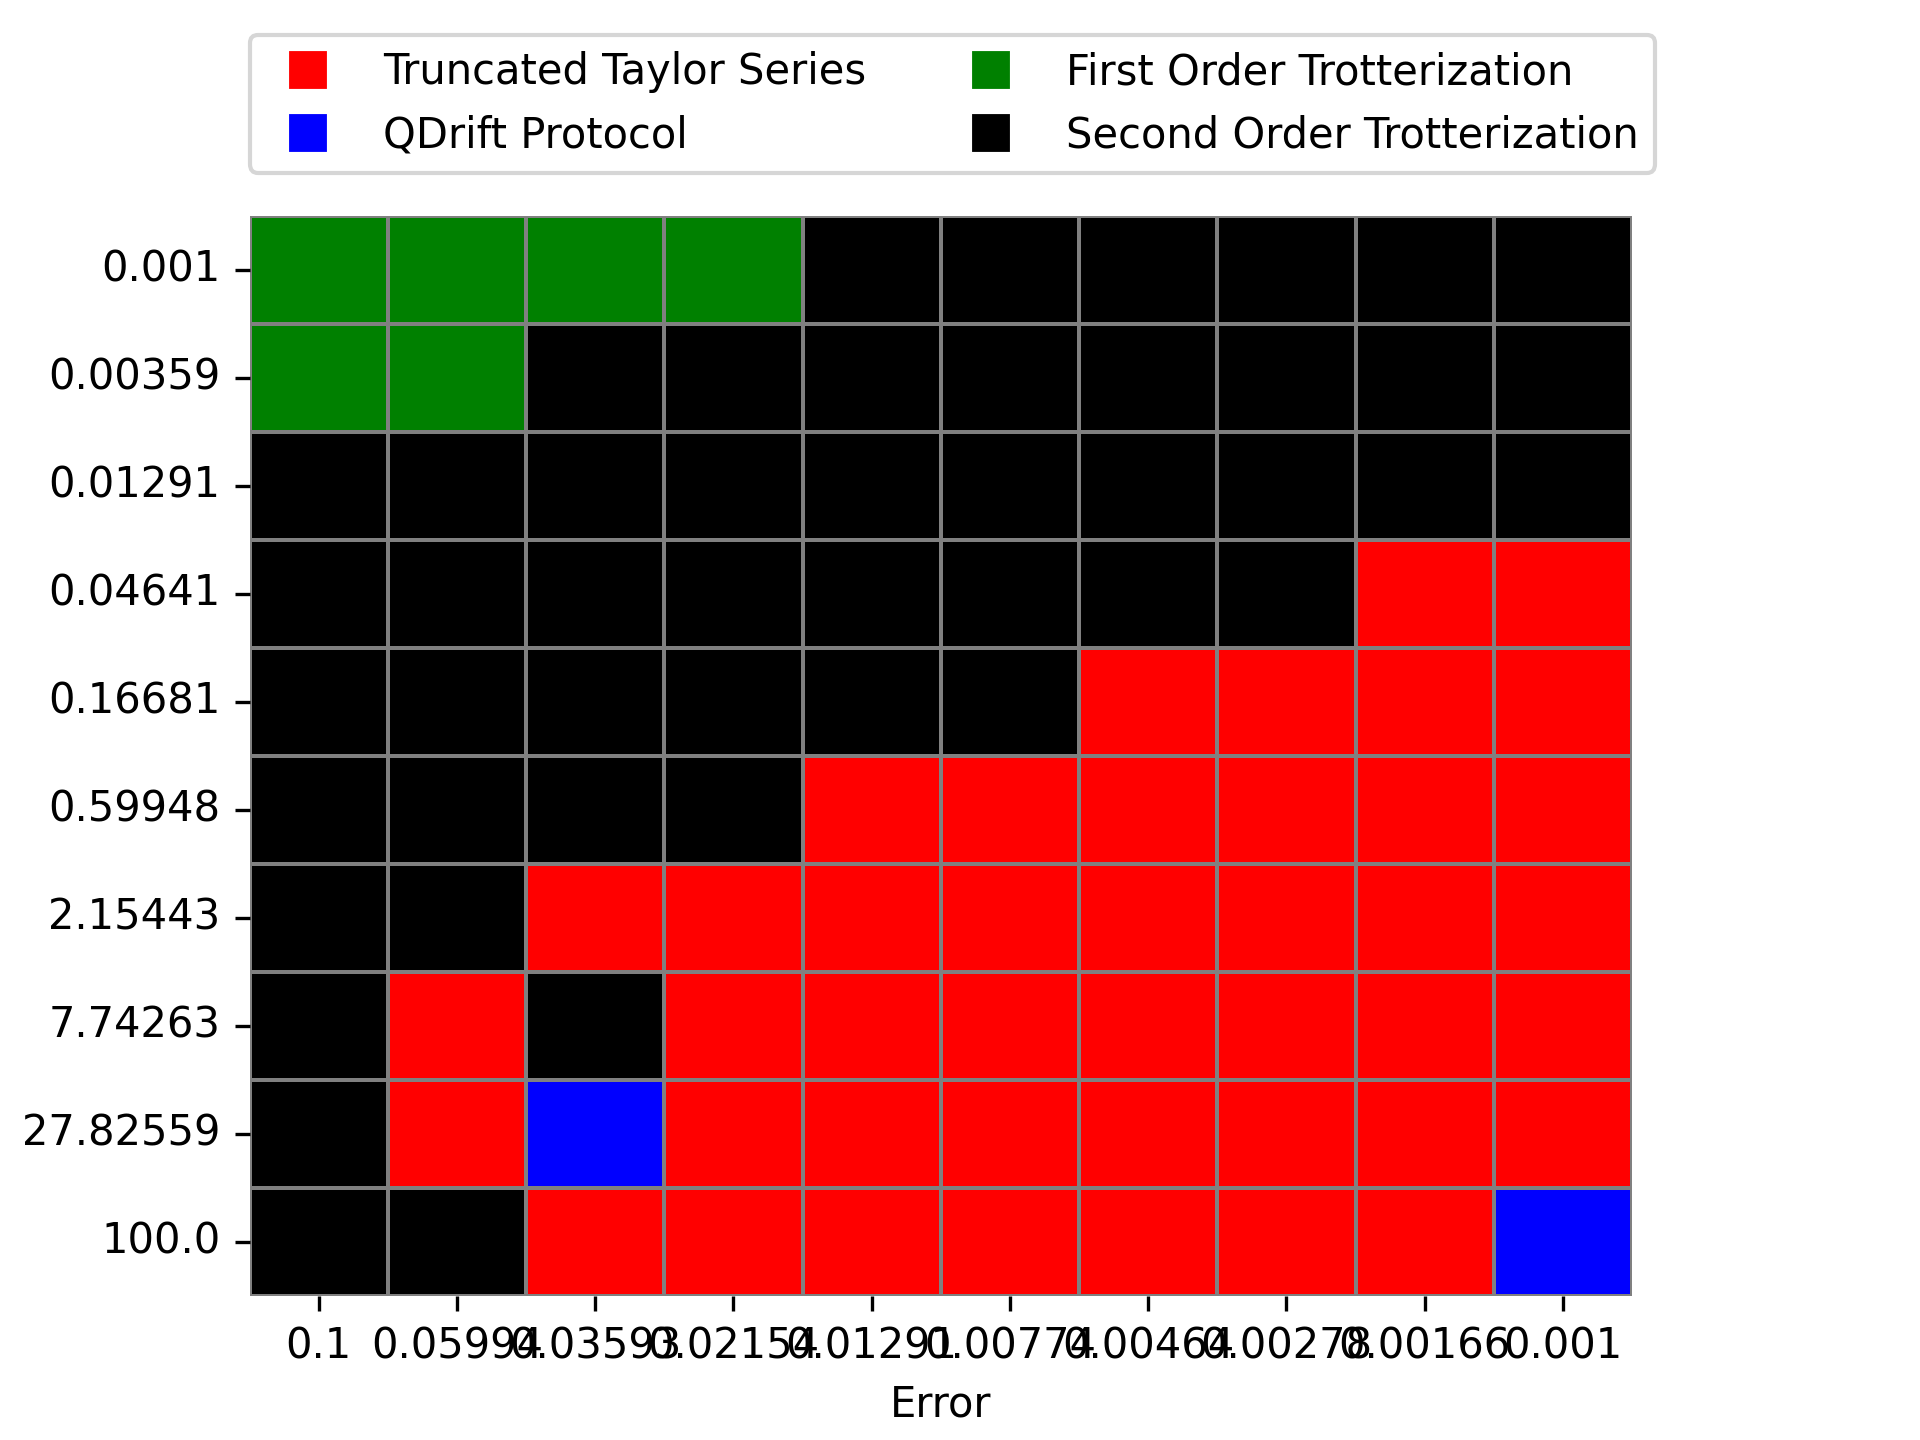
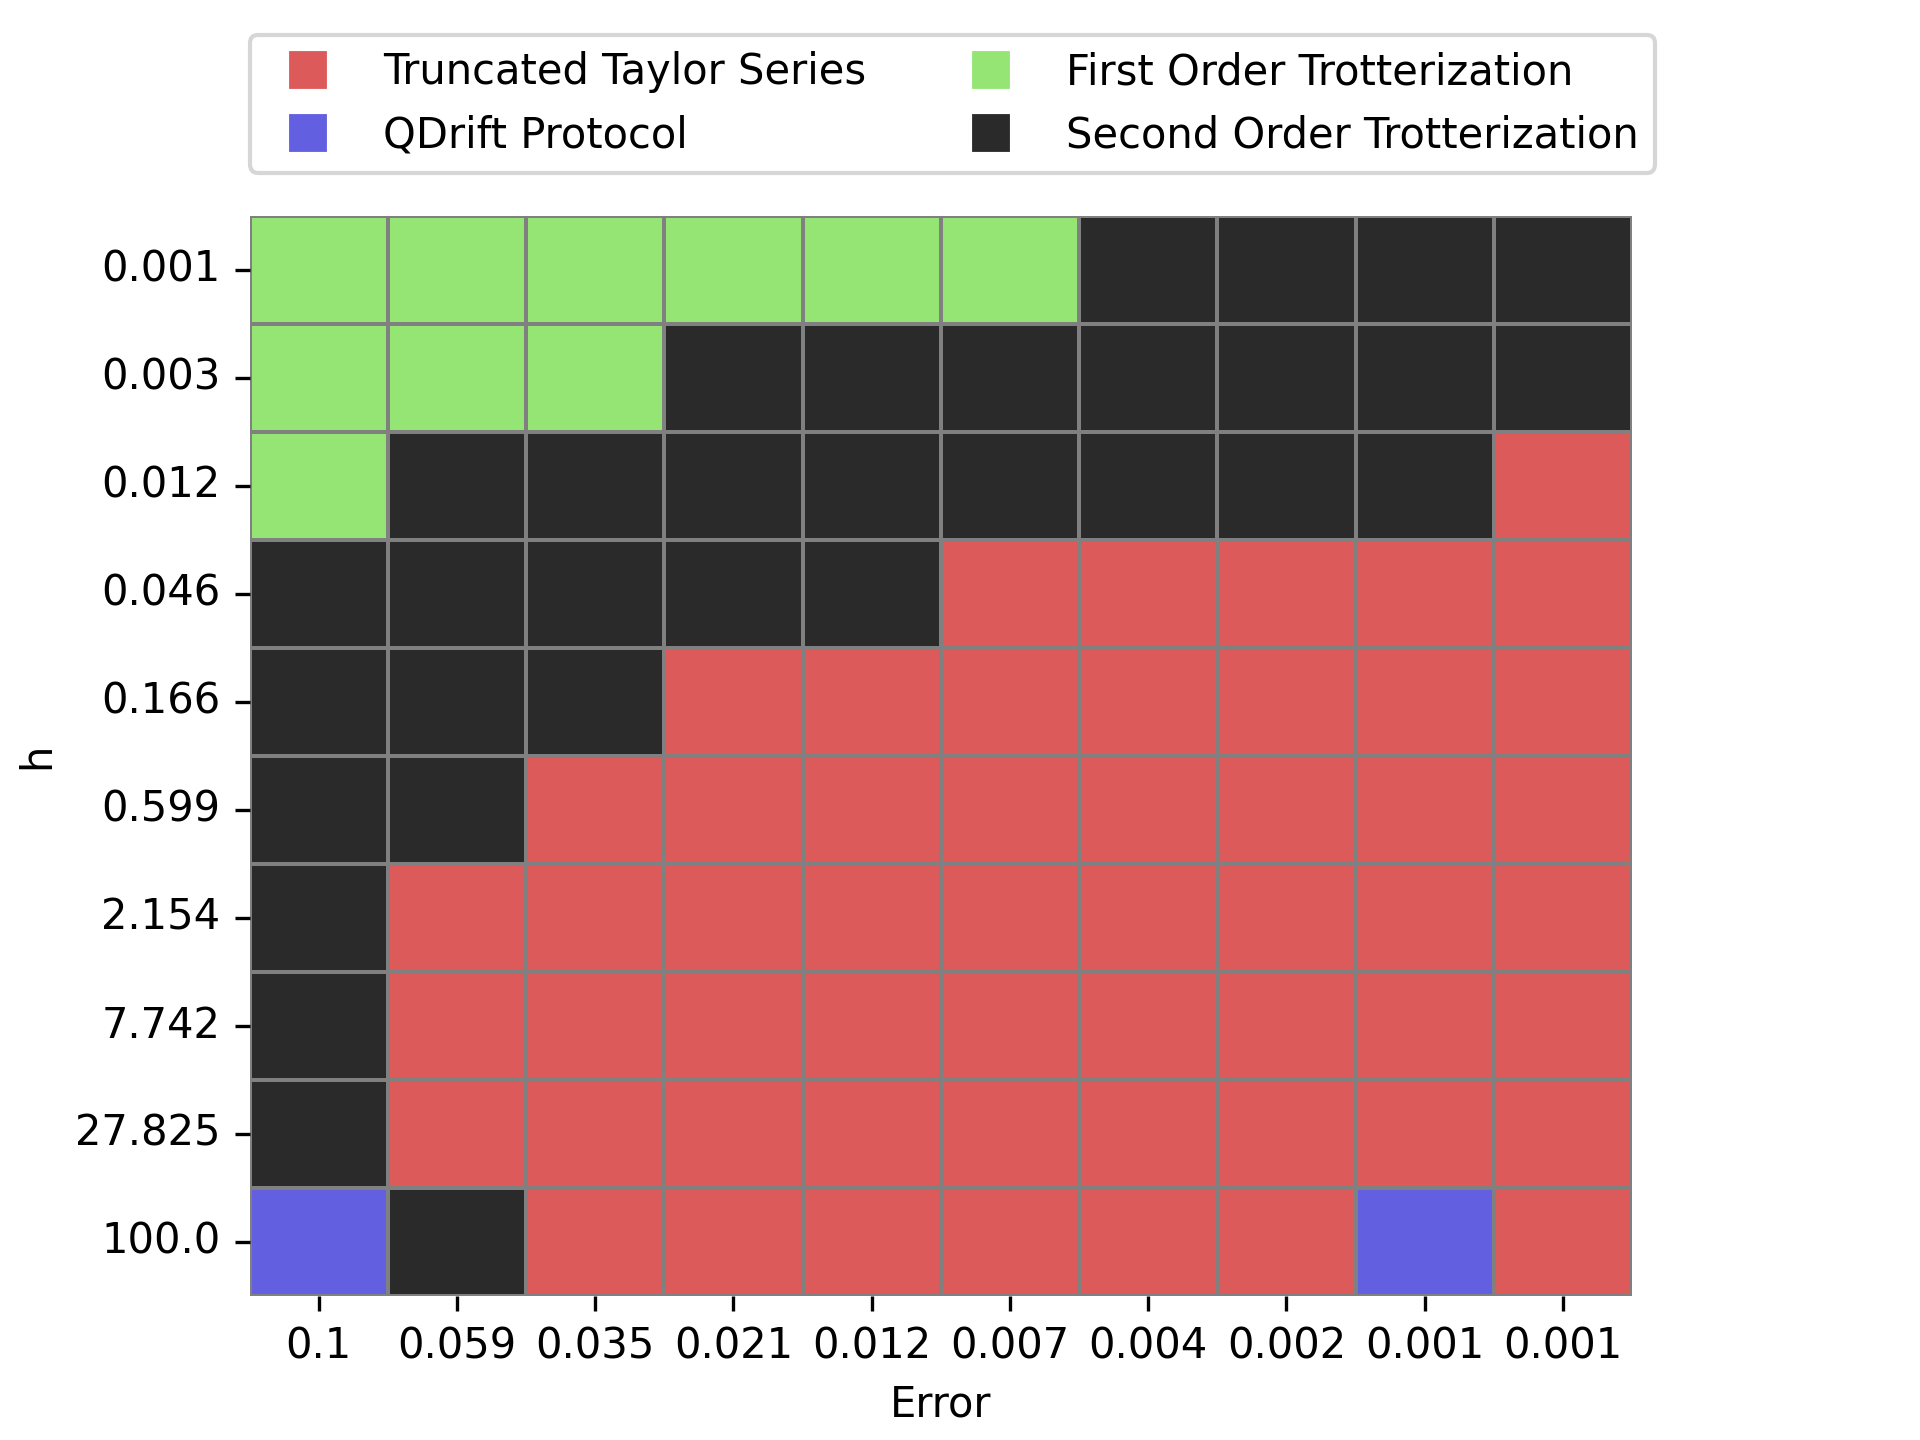
best grid completed for ising model

diff --git a/ising/benchmark/grid/plot_ising_h_vs_eps.py b/ising/benchmark/grid/plot_ising_h_vs_eps.py
@@ -5,7 +5,7 @@ import seaborn as sns
 import json
 
 QUBITS = 15
-TIME = 2.0
+TIME = 1.0
 ORDER = 2
 
 # THE BELOW ARE LOGARITHMIC WRT 10
@@ -31,7 +31,7 @@ MAP = {
     "trotter2": "Second Order Trotterization",
 }
 
-COLORS = ["red", "blue", "green", "black"]
+COLORS = ["#DC5B5A", "#625FE1", "#94E574", "#2A2A2A"]
 METHODS = [
     "Truncated Taylor Series",
     "QDrift Protocol",
@@ -119,8 +119,11 @@ def main():
     plt.xlabel("Error")
     plt.ylabel("h")
 
-    plt.xticks(np.arange(0.5, 10.5), error_points, rotation=0)
-    plt.yticks(np.arange(0.5, 10.5), h_points, rotation=0)
+    error_labels = [_truncate(x, 3) for x in error_points]
+    h_labels = [_truncate(x, 3) for x in h_points]
+
+    plt.xticks(np.arange(0.5, 10.5), error_labels, rotation=0)
+    plt.yticks(np.arange(0.5, 10.5), h_labels, rotation=0)
 
     legend_elements = [
         plt.Line2D(

diff --git a/ising/benchmark/grid/ising_h_vs_eps.py b/ising/benchmark/grid/ising_h_vs_eps.py
@@ -15,7 +15,7 @@ from ising.utils.commutator import (
 import json
 
 QUBITS = 15
-TIME = 2.0
+TIME = 1.0
 ORDER = 2
 
 # THE BELOW ARE LOGARITHMIC WRT 10
